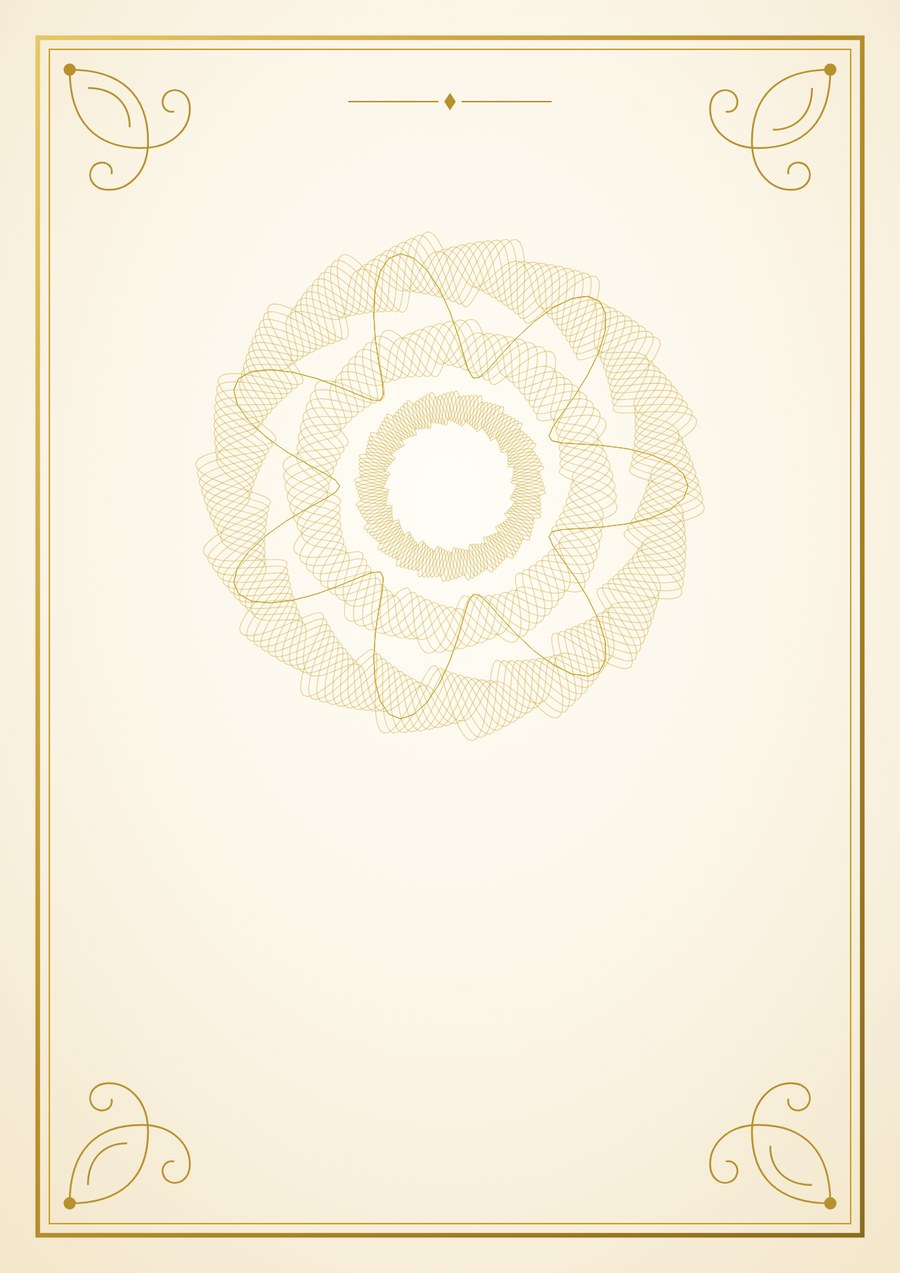
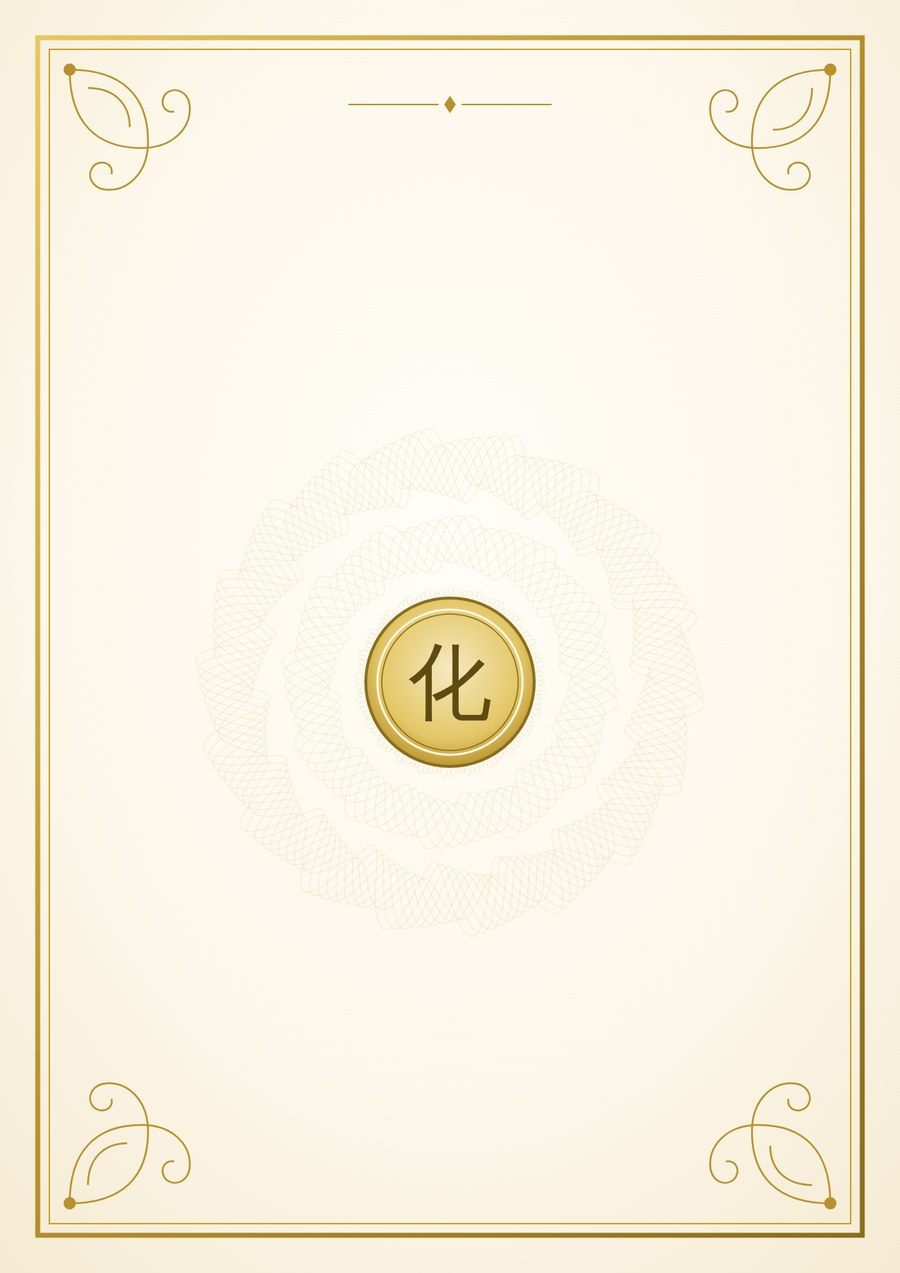
성적표 Word 배치·가독성 대폭 개선 + 표지 화(化) 금박 씰
실제 LibreOffice 렌더링으로 검증하며 배치·가독성을 전면 손봄.

- 제목 겹침 해결: 모든 문단 행높이를 고정(EXACT)에서 자동(AUTO)으로 바꿔 큰 제목 글자가
  윗줄과 겹치던 문제 제거.
- 페이지 프레임을 헤더 이미지(frame-bg.png)로 전환 — docx 페이지 테두리는 뷰어에 따라
  안 나와서, 투명 배경 금박 프레임을 헤더에 넣어 모든 페이지·모든 뷰어에서 안정 표시.
- 표지: 길로셰를 옅게(가독성↑) 하고 중앙에 化 금박 씰(엠블럼) 삽입. 제목은 상단 여백,
  이름은 씰 아래로 재배치(겹침·가림 없음). 표지 배경은 첫 페이지 헤더 이미지로.
- 배치: 짧은 진단 섹션(진단개요·영역별성취·학습처방)을 한 페이지에 흐르게, 부록 표지도
  '표지+첫 항목'이 같은 페이지에서 시작하도록 바꿔 빈 페이지·과도한 여백 제거(예시 17→15p).
- 자산: cover-bg.jpg(길로셰+化 씰), frame-bg.png(투명 금박 프레임), divider-orn.png.

검증: LibreOffice로 docx→PDF 렌더링해 표지·진단 섹션·오답 카드·강의 전 페이지 육안 확인
(겹침 없음, 프레임 표시, 섹션 채움, 가독성 양호). 브라우저 생성 0.4s. 채점·동기화·자산 테스트 통과.

Claude-Session: https://claude.ai/code/session_01P2VJF89yfUToAM8apgdNd6

Changed region(s): [[0.2178, 0.1838, 0.7778, 0.6127], [0.4044, 0.0613, 0.6222, 0.0919]]

diff --git a/final.html b/final.html
@@ -2187,7 +2187,8 @@ async function downloadReportDOCX(){
       Table=Dx.Table,TableRow=Dx.TableRow,TableCell=Dx.TableCell,WidthType=Dx.WidthType,BorderStyle=Dx.BorderStyle,
       ShadingType=Dx.ShadingType,ImageRun=Dx.ImageRun,PageBreak=Dx.PageBreak,VerticalAlign=Dx.VerticalAlign,
       PageBorderDisplay=Dx.PageBorderDisplay,PageBorderOffsetFrom=Dx.PageBorderOffsetFrom,
-      HPos=Dx.HorizontalPositionRelativeFrom,VPos=Dx.VerticalPositionRelativeFrom,TWrap=Dx.TextWrappingType;
+      HPos=Dx.HorizontalPositionRelativeFrom,VPos=Dx.VerticalPositionRelativeFrom,TWrap=Dx.TextWrappingType,
+      LineRule=Dx.LineRuleType,Header=Dx.Header;
 
   // ── 데이터 재수집(scoreAuto/ buildBook과 동일 규칙) ──
   var miss=new Set(cur.miss||[]), correct=0, total=0;
@@ -2217,7 +2218,7 @@ async function downloadReportDOCX(){
     var dq=dh&&dh[w.q]; if(dq&&dq.image) dhImgMap[w.q]=await _fetchImg(dq.image);
   }));
   // 고급 장식 자산(직접 생성한 길로셰 표지 배경 + 금박 구분선). 없으면 조용히 생략.
-  var coverBg=await _fetchBin('assets/report/cover-bg.jpg'), dividerOrn=await _fetchImg('assets/report/divider-orn.png');
+  var coverBg=await _fetchBin('assets/report/cover-bg.jpg'), dividerOrn=await _fetchImg('assets/report/divider-orn.png'), frameBg=await _fetchImg('assets/report/frame-bg.png');
 
   // ── 색·헬퍼 ──
   var EM='0E4A38',GOLD='B8912E',GOLDL='C9A227',RED='B0512F',INK='221E16',MUT='6b6456',CREAMH='F4ECD8',CI=CIRC;
@@ -2225,7 +2226,7 @@ async function downloadReportDOCX(){
   var NB={style:BorderStyle.NONE,size:0,color:'FFFFFF'};
   function bdr(c,s,st){return {style:st||BorderStyle.SINGLE,size:s||4,color:c||GOLDL};}
   function run(t,o){o=o||{};return new TextRun({text:String(t==null?'':t),bold:!!o.bold,italics:!!o.i,color:o.color||INK,size:o.size||22,font:o.serif?'Batang':'Malgun Gothic',characterSpacing:o.cs});}
-  function P(runs,o){o=o||{};return new Paragraph({alignment:o.align,spacing:{before:o.before==null?60:o.before,after:o.after==null?60:o.after,line:o.line||300},border:o.border,shading:o.fill?{type:ShadingType.CLEAR,fill:o.fill,color:'auto'}:undefined,children:Array.isArray(runs)?runs:[runs]});}
+  function P(runs,o){o=o||{};return new Paragraph({alignment:o.align,spacing:{before:o.before==null?60:o.before,after:o.after==null?60:o.after,line:o.line||288,lineRule:LineRule.AUTO},border:o.border,shading:o.fill?{type:ShadingType.CLEAR,fill:o.fill,color:'auto'}:undefined,children:Array.isArray(runs)?runs:[runs]});}
   function txt(t,o){return P([run(t,o)],o);}
   function C(children,o){o=o||{};return new TableCell({width:{size:o.w,type:WidthType.DXA},shading:o.fill?{type:ShadingType.CLEAR,fill:o.fill,color:'auto'}:undefined,verticalAlign:VerticalAlign.CENTER,margins:{top:o.mt||80,bottom:o.mb||80,left:o.ml||120,right:o.mr||120},children:Array.isArray(children)?children:[children]});}
   function cellT(t,o){o=o||{};return C([txt(t,{align:o.align,bold:o.bold,color:o.color,size:o.size})],o);}
@@ -2235,8 +2236,8 @@ async function downloadReportDOCX(){
   function H(t,num){return P([run((num?num+'  ':''),{bold:true,color:GOLD,size:20}),run(t,{bold:true,color:EM,size:32,serif:true})],{before:120,after:120,border:{bottom:bdr(EM,10)}});}
   function PB(){return new Paragraph({children:[new PageBreak()]});}
   function imgPara(u8,maxW){ var d=_pngDims(u8)||{w:maxW,h:Math.round(maxW*0.4)}; var w=Math.min(maxW,d.w||maxW), h=Math.round(w*(d.h||1)/(d.w||1)); return P([new ImageRun({type:'png',data:u8,transformation:{width:w,height:h}})],{after:120}); }
-  // 표지 전면 배경(길로셰) — 텍스트 뒤에 페이지 전체로 앵커
-  function bgPara(u8){ if(!u8) return P([],{after:0,before:0}); return new Paragraph({spacing:{after:0,before:0,line:1},children:[new ImageRun({type:'jpg',data:u8,transformation:{width:794,height:1123},floating:{horizontalPosition:{relative:HPos.PAGE,offset:0},verticalPosition:{relative:VPos.PAGE,offset:0},behindDocument:true,allowOverlap:true,wrap:{type:TWrap.NONE}}})]}); }
+  // 전면 배경 이미지(페이지 전체, 텍스트 뒤) — 헤더에 넣어 모든 페이지에 반복(프레임/표지)
+  function bgFullPara(u8,type){ if(!u8) return new Paragraph({children:[]}); return new Paragraph({spacing:{after:0,before:0,line:1,lineRule:LineRule.AUTO},children:[new ImageRun({type:type||'png',data:u8,transformation:{width:794,height:1123},floating:{horizontalPosition:{relative:HPos.PAGE,offset:0},verticalPosition:{relative:VPos.PAGE,offset:0},behindDocument:true,allowOverlap:true,wrap:{type:TWrap.NONE}}})]}); }
   // 금박 구분선 오너먼트(가운데 정렬)
   function ornPara(u8,ww,o){ o=o||{}; if(!u8) return P([],{after:o.after==null?100:o.after}); var w=ww||300; return P([new ImageRun({type:'png',data:u8,transformation:{width:w,height:Math.round(w*54/600)}})],{align:AlignmentType.CENTER,before:o.before==null?40:o.before,after:o.after==null?140:o.after}); }
   function esc2(s){return String(s==null?'':s);}
@@ -2248,15 +2249,15 @@ async function downloadReportDOCX(){
     return out; }
 
   var body=[];
-  // ── 표지 (길로셰 전면 배경 위에 조판) ──
-  body.push(bgPara(coverBg), P([],{before:2300}),
-    txt('화학올림피아드 정밀 진단',{align:AlignmentType.CENTER,color:MUT,size:22,after:110}),
-    txt('성적 진단서',{align:AlignmentType.CENTER,bold:true,size:72,serif:true,after:150}),
-    txt(cur.title,{align:AlignmentType.CENTER,color:EM,size:30,serif:true,after:120}),
-    ornPara(dividerOrn,300,{before:20,after:150}),
-    txt('化',{align:AlignmentType.CENTER,color:GOLD,size:64,serif:true,after:1900}),
-    txt(nm||'학생',{align:AlignmentType.CENTER,bold:true,size:34,serif:true,after:40}),
-    txt([sch,grd?grd+'학년':''].filter(Boolean).join('  ·  '),{align:AlignmentType.CENTER,color:MUT,size:20,after:40}),
+  // ── 표지 (배경 길로셰+化 씰은 첫 페이지 헤더 이미지. 텍스트는 상단(제목)·하단(이름)에 배치) ──
+  body.push(P([],{before:1300}),
+    txt('화학올림피아드 정밀 진단',{align:AlignmentType.CENTER,color:MUT,size:22,after:130}),
+    txt('성적 진단서',{align:AlignmentType.CENTER,bold:true,size:78,serif:true,after:150}),
+    txt(cur.title,{align:AlignmentType.CENTER,color:EM,size:30,serif:true,after:90}),
+    ornPara(dividerOrn,320,{before:30,after:40}),
+    P([],{before:5200}),
+    txt(nm||'학생',{align:AlignmentType.CENTER,bold:true,size:38,serif:true,after:60}),
+    txt([sch,grd?grd+'학년':''].filter(Boolean).join('  ·  '),{align:AlignmentType.CENTER,color:MUT,size:20,after:36}),
     txt('성취 지표 · 영역별 진단 · 오답 정밀 분석 · 학습 처방 · 개념 강의 교재',{align:AlignmentType.CENTER,color:GOLD,size:16}),
     PB());
 
@@ -2275,7 +2276,7 @@ async function downloadReportDOCX(){
 
   // ── 02 영역별 성취 ──
   if(areas.length){
-    body.push(PB(),kicker('❖  BY AREA  ❖'),H('영역별 성취','02'));
+    body.push(P([],{before:300}),kicker('❖  BY AREA  ❖'),H('영역별 성취','02'));
     var strTxt=strong.length?('강점 영역은 '+strong.slice(0,3).map(function(a){return a.name;}).join(', ')+'입니다. '):'';
     var weakTxt=weak.length?('보완이 필요한 영역은 '+weak.slice(0,3).map(function(a){return a.name;}).join(', ')+'입니다.'):'뚜렷한 취약 영역 없이 고르게 응답했습니다.';
     body.push(txt(strTxt+weakTxt,{after:140}));
@@ -2294,14 +2295,14 @@ async function downloadReportDOCX(){
     if(r.t) rxBlocks.push(P([run('함정  ',{bold:true,color:RED,size:20}),run(esc2(r.t),{size:20,color:'413c32'})],{after:30,border:{left:bdr(RED,14)}}));
     if(r.rx) rxBlocks.push(P([run('처방  ',{bold:true,color:GOLD,size:20}),run(esc2(r.rx),{size:20,color:'413c32'})],{after:80,border:{left:bdr(GOLD,14)}}));
   });
-  if(rxBlocks.length){ body.push(PB(),kicker('❖  PRESCRIPTION  ❖'),H('학습 처방','03'),txt('가장 약한 영역부터, 핵심 개념·자주 틀리는 함정·복습 처방을 제시합니다.',{after:120})); body.push.apply(body,rxBlocks); }
+  if(rxBlocks.length){ body.push(P([],{before:300}),kicker('❖  PRESCRIPTION  ❖'),H('학습 처방','03'),txt('가장 약한 영역부터, 핵심 개념·자주 틀리는 함정·복습 처방을 제시합니다.',{after:120})); body.push.apply(body,rxBlocks); }
 
   // ── 부록: 오답 정리 노트 ──
   if((wrong||[]).length){
-    body.push(PB(),P([],{before:3200}),kicker('❖  APPENDIX · 오답 정리  ❖'),
-      txt('오답 정리 노트',{align:AlignmentType.CENTER,bold:true,color:EM,size:56,serif:true,after:60}),
-      ornPara(dividerOrn,340,{before:20,after:150}),
-      txt('이번 시험에서 틀린 '+W+'문항입니다. 왜 틀렸는지와, 숫자·조건만 바꾼 동형문제를 정답·해설과 함께 정리했습니다.',{align:AlignmentType.CENTER,color:MUT}),PB());
+    body.push(PB(),kicker('❖  APPENDIX · 오답 정리  ❖'),
+      txt('오답 정리 노트',{align:AlignmentType.CENTER,bold:true,color:EM,size:52,serif:true,after:50}),
+      ornPara(dividerOrn,340,{before:16,after:120}),
+      txt('이번 시험에서 틀린 '+W+'문항입니다. 왜 틀렸는지와, 숫자·조건만 바꾼 동형문제를 정답·해설과 함께 정리했습니다.',{align:AlignmentType.CENTER,color:MUT,after:220}));
     (wrong||[]).slice().sort(function(a,b){return a.q-b.q;}).forEach(function(w){
       var ty=(cur.type&&cur.type[w.q-1])||'', ar=(cur.area&&cur.area[w.q-1])||'', bd=bkBroad(ar);
       var ck=cur.key?cur.key[w.q-1]:0; var aq=answers&&answers[w.q]||{}, dq=dh&&dh[w.q];
@@ -2331,25 +2332,28 @@ async function downloadReportDOCX(){
     var files=lecturesForWrong(cur, wrong).slice(0,24);
     var lecs=files.length?(await Promise.all(files.map(fetchLectureContent))).filter(Boolean):[];
     if(lecs.length){
-      body.push(PB(),P([],{before:3200}),kicker('❖  APPENDIX · 개념 강의  ❖'),
-        txt('개념 강의 교재',{align:AlignmentType.CENTER,bold:true,color:EM,size:56,serif:true,after:60}),
-        ornPara(dividerOrn,340,{before:20,after:150}),
-        txt('이번 시험에서 틀린 개념의 강의 전문입니다. 이 부록만으로 개념을 처음부터 다시 세울 수 있습니다.',{align:AlignmentType.CENTER,color:MUT}));
-      lecs.forEach(function(L){ body.push(PB(),kicker('개념 강의'),H(L.title,null)); body.push.apply(body, lecToParas(L.html)); });
+      body.push(PB(),kicker('❖  APPENDIX · 개념 강의  ❖'),
+        txt('개념 강의 교재',{align:AlignmentType.CENTER,bold:true,color:EM,size:52,serif:true,after:50}),
+        ornPara(dividerOrn,340,{before:16,after:120}),
+        txt('이번 시험에서 틀린 개념의 강의 전문입니다. 이 부록만으로 개념을 처음부터 다시 세울 수 있습니다.',{align:AlignmentType.CENTER,color:MUT,after:220}));
+      lecs.forEach(function(L,li){ body.push(li===0?P([],{before:120}):PB(),H(L.title,null)); body.push.apply(body, lecToParas(L.html)); });
     }
   }catch(e){}
 
   // ── 마무리 ──
   body.push(P([],{before:200}),P([run('이 리포트는 '+(nm||'학생')+' 학생을 위한 개인 맞춤 분석 자료입니다.  ·  Chemistreal · 조준모 화학',{color:MUT,size:16,i:true})],{align:AlignmentType.CENTER,before:200}));
 
+  // 프레임/표지는 헤더 이미지로(모든 뷰어에서 안정적으로 모든 페이지에 표시)
+  var firstHdr=new Header({children:[bgFullPara(coverBg,'jpg')]});
+  var defHdr=new Header({children:[bgFullPara(frameBg,'png')]});
   var doc=new Document({
     creator:'Chemistreal', title:(nm?nm+' ':'')+cur.title+' 성적표',
     styles:{default:{document:{run:{font:'Malgun Gothic',color:INK}}}},
-    sections:[{properties:{page:{
-      size:{width:11906,height:16838},
-      margin:{top:1200,right:1080,bottom:1200,left:1080},
-      borders:{pageBorderDisplay:PageBorderDisplay.NOT_FIRST_PAGE,pageBorderOffsetFrom:PageBorderOffsetFrom.PAGE,
-        top:bdr(GOLD,6,BorderStyle.DOUBLE),bottom:bdr(GOLD,6,BorderStyle.DOUBLE),left:bdr(GOLD,6,BorderStyle.DOUBLE),right:bdr(GOLD,6,BorderStyle.DOUBLE)}}},
+    sections:[{
+      properties:{titlePage:true,page:{
+        size:{width:11906,height:16838},
+        margin:{top:1200,right:1080,bottom:1200,left:1080,header:200,footer:200}}},
+      headers:{default:defHdr,first:firstHdr},
       children:body}],
   });
   try{
